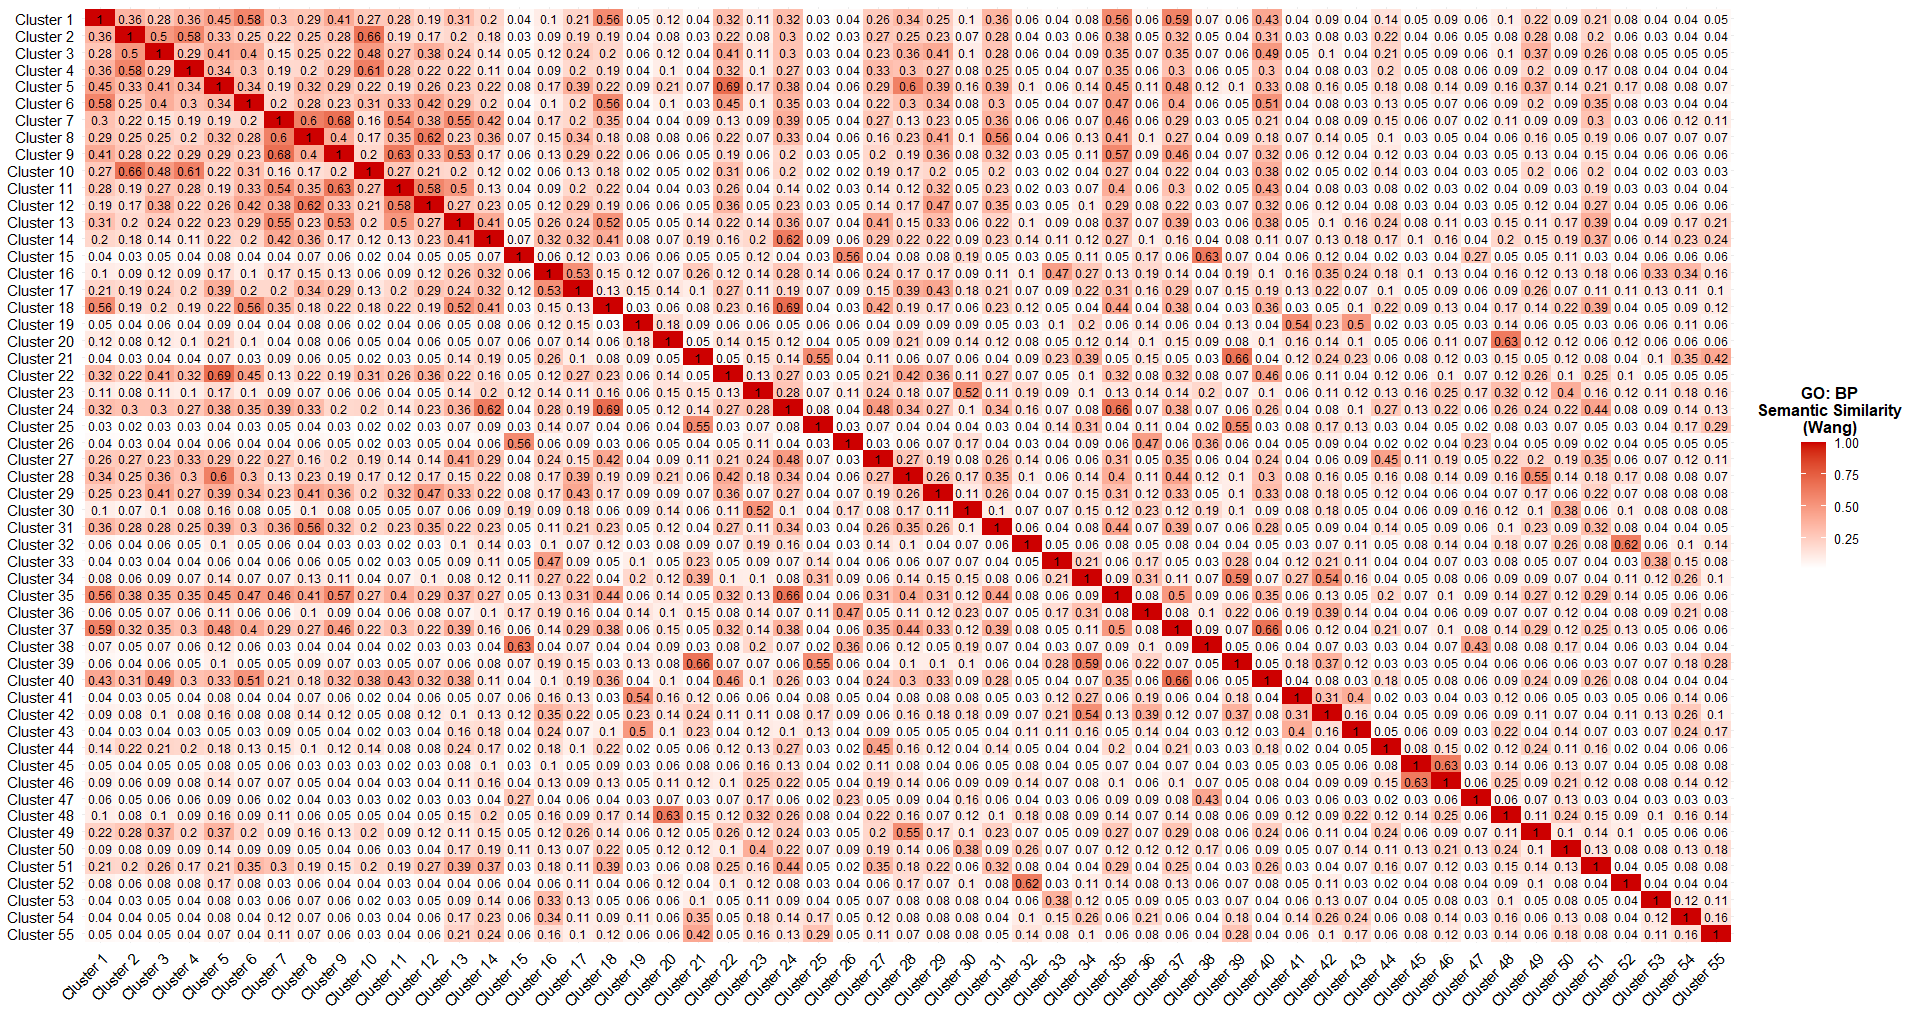
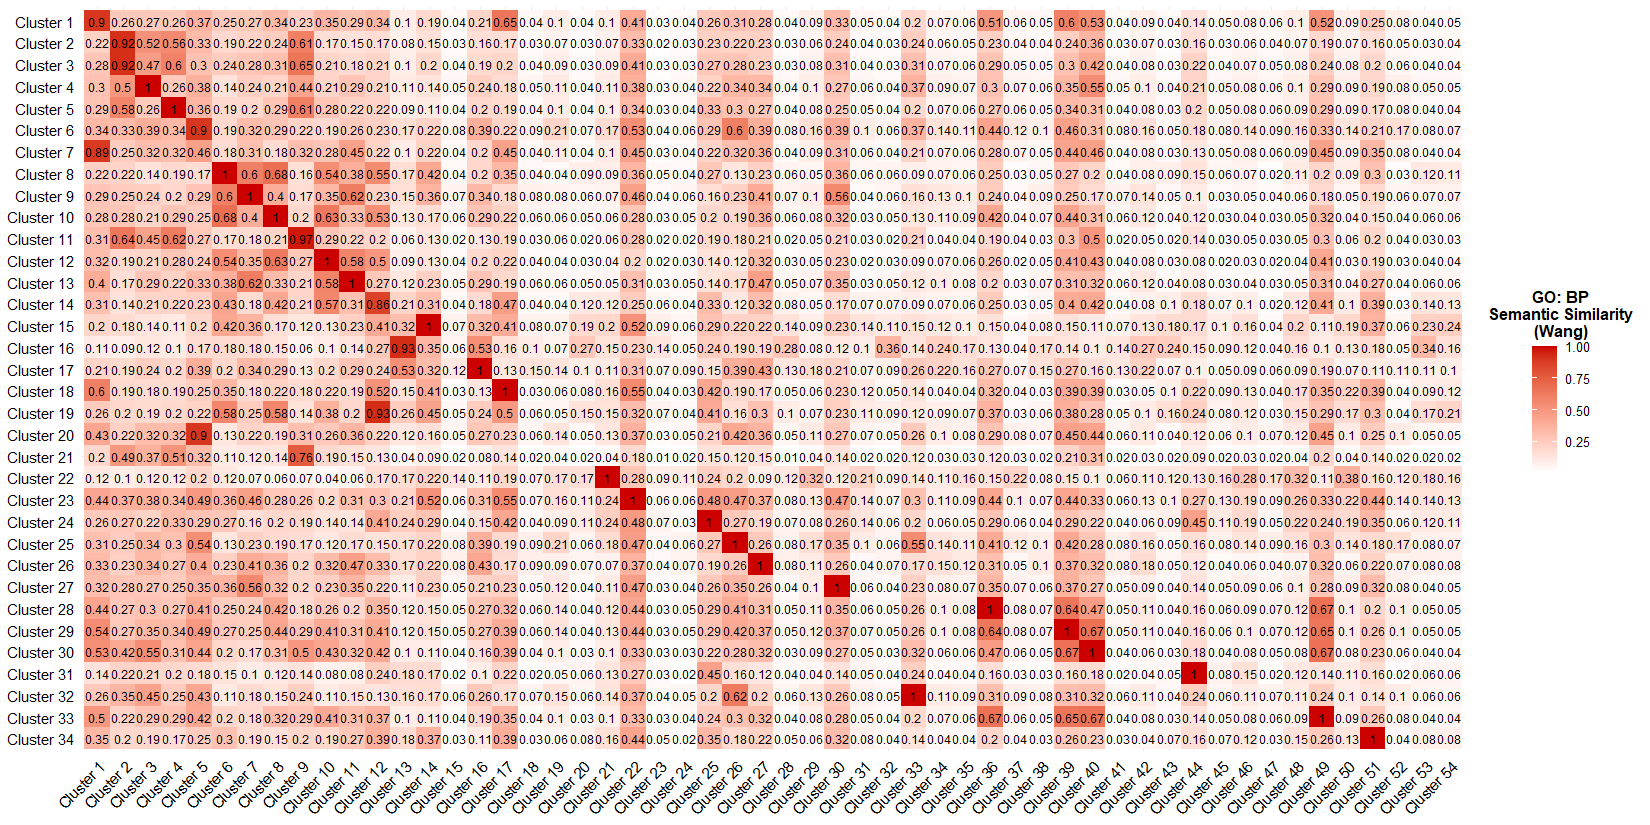
Fixing bugs

diff --git a/README.md b/README.md
@@ -61,6 +61,8 @@ The first step is to import the list (or lists) of GO-terms of interest. To exem
 
 ``` r
 library(visualizeGO)
+library(dplyr)
+library(igraph)
 
 data <- as.data.frame(readxl::read_xlsx(system.file("extdata", "GOTerms.xlsx", package = "visualizeGO")))
 ```
@@ -248,6 +250,7 @@ scores = setNames(-log10(GO_BP$Padj), GO_BP$ID),
 title = "Distance Between GO-Terms",
 colors = generate_pastel_colors(n = 54))
 ```
+![TreeMap Plot](inst/images/treemap.png)
 
 ### Comparing lists of GO-terms
 
@@ -295,12 +298,13 @@ how to obtain the clusters for the second data table `data2`. Remember that
 **ONLY** clusters of GO-terms of the same ontology category
 *(BP vs BP, CC vs CC & MF vs MF)* can be compared. Also, it would not make
 *biological* sense to compare clusters of GO-terms obtained through their
-conformation in the network ... But you do you! In this case we want to
-see how similar the terms used in the clustering are. 
+conformation in the network ... But you do you!
+In this case we are going to compare how similar the clusters detected 
+pre- and post-filtering are.
 
 ``` r
 compareGO(comparison = "cluster",
-list1 = cluster$clusters, list2 = cluster$clusters,
+list1 = cluster$clusters, list2 = cluster2$clusters,
 ontology = "BP", OrgDb = "org.Hs.eg.db",
 method = "Wang", combine = "BMA", plot = T,
 low = "white", high = "red3",
@@ -310,13 +314,9 @@ cex = 3, cex_axis = 10)
 
 ![](inst/images/heatmap2.png)
 
-The graph shows how groups 1 to 14 are very similar, which is biologically coherent
-as they are terms grouped in clusters closely related to lipid metabolism. Two of
-the most similar clusters are Cluster 18 ("*negative regulation of fatty acid metabolic process*") and Cluster
-24 ("*regulation of cellular ketone metabolic process*") (similarity score = ~70%). If we make the
-graph of both clusters we obtain:
-
-![](inst/images/plot4.png)
+As we can see in the heatmap, there are many clusters that are common to both
+analyses - *as expected*-. Although there are some unique clusters in the
+analysis of the 54 clusters, such as Clusters 15, 18, 19, etc.
 
 ### Build the hierarchical graph
 
